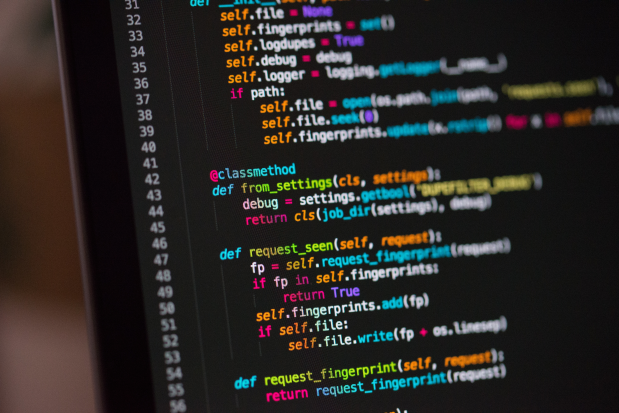
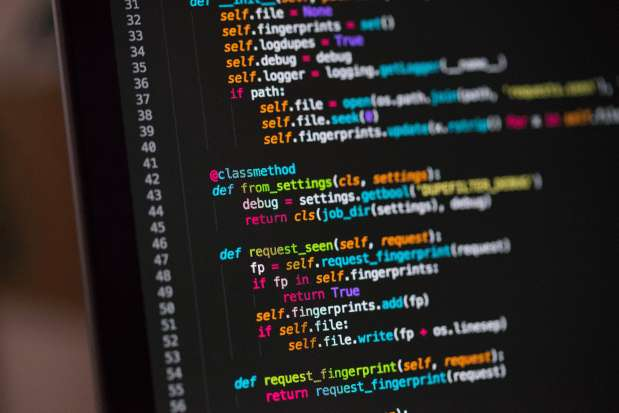
Rezise des images

diff --git a/src/public/css/index.css b/src/public/css/index.css
@@ -23,7 +23,6 @@ body{
 
 .index__nav{
     background-color: var(--bg-dark);
-    width: 80%;
     margin: auto;
     display: flex;
     justify-content: space-between;
@@ -47,7 +46,6 @@ body{
 
 .index__article{
     background-color: var(--bg-content);
-    width: 80%;
     margin: auto;
     min-height: 80vh;
     padding: 0 10px;
@@ -67,7 +65,6 @@ body{
 }
 
 .facteurs__photo{
-    width: 40%;
     display: flex;
     flex-direction: column;
     padding: 10px;
@@ -87,10 +84,6 @@ body{
 
 .facteurs__photo span a:visited{
     color: black;
-}
-
-.facteurs__desc{
-    width: 60%;
 }
 
 [data-spawn]{
